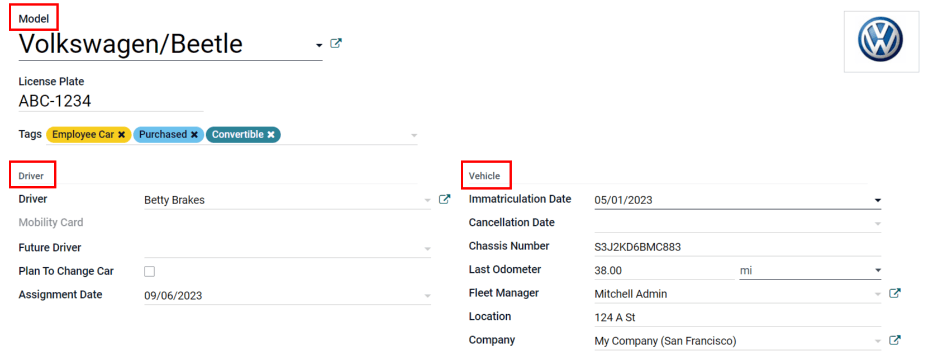
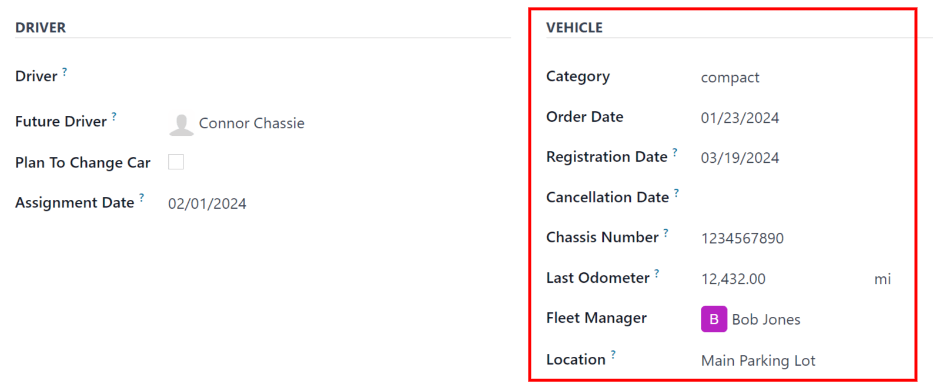
[IMP] fleet: new vehicle updates
X-original-commit: 3a16f09f7889e3b8a0e4f062fd45a429ed9d5d49

diff --git a/content/applications/hr/fleet/new_vehicle.rst b/content/applications/hr/fleet/new_vehicle.rst
@@ -1,33 +1,47 @@
-===================
-Create new vehicles
-===================
+============
+New vehicles
+============
 
-Odoo's *Fleet* app manages all vehicles and the accompanying documentation that comes with vehicle
-maintenance and driver's records.
+Odoo's *Fleet* app manages all vehicles, and the accompanying documentation that comes with vehicle
+maintenance, and drivers records.
 
-All vehicles are organized on the main :guilabel:`Fleet` dashboard. Each vehicle has its own
-*vehicle form*, which is displayed as a card in the kanban view, according to it's status. Every
-vehicle form is displayed in its current corresponding kanban stage. The default stages are
-:guilabel:`New Request`, :guilabel:`To Order`, :guilabel:`Ordered`, :guilabel:`Registered`,
-:guilabel:`Downgraded`, :guilabel:`Reserve`, and :guilabel:`Waiting List`.
+Upon opening the :menuselection:`Fleet` application, all vehicles are organized within the
+:guilabel:`Vehicles` dashboard, which is the default dashboard for the *Fleet* application. Each
+vehicle is displayed in its corresponding Kanban stage, based on its status. The default stages are
+:guilabel:`New Request`, :guilabel:`To Order`, :guilabel:`Registered`, and :guilabel:`Downgraded`.
 
-To add a new vehicle to the fleet, click the :guilabel:`Create` button, and a blank vehicle form
-loads. Enter the vehicle information in the vehicle form, then click :guilabel:`Save`.
+To add a new vehicle to the fleet from the :guilabel:`Vehicles` page, click the :guilabel:`New`
+button in the top-left corner, and a blank vehicle form loads. Then, proceed to enter the vehicle
+information on the vehicle form.
+
+The form auto-saves as data is entered. However, the form can be saved manually at any time by
+clicking the *save manually* option, represented by a :guilabel:`(cloud upload)` icon, located in
+the top-left corner of the page.
+
+.. _fleet/new_vehicle/vehicle-form:
 
 Vehicle form fields
 ===================
 
-- :guilabel:`Model`: select the vehicle's model from the drop-down menu. If the model is not listed,
-  type in the model name and click either :guilabel:`Create` or :guilabel:`Create and Edit`.
+- :guilabel:`Model`: select the vehicle's model from the drop-down menu. Once a model is selected,
+  additional fields may appear on the form.
+
+  If the model is not listed, type in the model name, and click either :guilabel:`Create "model"`,
+  or :guilabel:`Create and edit...` to :ref:`create a new model and edit the model details
+  <fleet/configuration/add-model>`.
 - :guilabel:`License Plate`: enter the vehicle's license plate number in this field.
 - :guilabel:`Tags`: select any tags from the drop-down menu, or type in a new tag. There is no limit
   on the amount of tags that can be selected.
 
+.. image:: new_vehicle/model.png
+   :align: center
+   :alt: The new vehicle form, showing the model section.
+
 .. note::
    The :guilabel:`Model` is the only required field on the new vehicle form. When a model is
-   selected, other fields will appear on the vehicle form, and relevant information will
-   auto-populate fields that apply to the model. If some of the fields do not appear, this may
-   indicate there is no model selected.
+   selected, other fields appear on the vehicle form, and relevant information auto-populates the
+   fields that apply to the model. If some of the fields do not appear, this may indicate there is
+   no model selected.
 
 Driver section
 --------------
@@ -36,58 +50,226 @@ This section of the vehicle form relates to the person who is currently driving 
 any plans for a change in the driver in the future, and when.
 
 - :guilabel:`Driver`: select the driver from the drop-down menu, or type in a new driver and click
-  either :guilabel:`Create` or :guilabel:`Create and Edit`.
+  either :guilabel:`Create "driver"` or :guilabel:`Create and edit...` to :ref:`create a new driver,
+  and edit the driver details <fleet/new_vehicle/add-driver>`.
+
+  .. important::
+     A driver does **not** have to be an employee. When creating a new driver, the driver is added
+     to the *Fleet* application, **not** the *Employees* application.
+
+     If the *Contacts* application is installed, the driver information is also stored in the
+     *Contacts* application.
+
 - :guilabel:`Mobility Card`: if the selected driver has a mobility card listed on their employee
-  card in the *Employees* application, the mobility card number will appear in this field. If there
-  is no mobility card listed and one should be added, :ref:`edit the employee card
+  card in the *Employees* application, the mobility card number appears in this field. If there is
+  no mobility card listed, and one should be added, :ref:`edit the employee record
   <employees/hr-settings>` in the *Employees* application.
 - :guilabel:`Future Driver`: if the next driver for the vehicle is known, select the next driver
-  from the drop-down menu, or type in the next driver and click either :guilabel:`Create` or
-  :guilabel:`Create and Edit`.
+  from the drop-down menu. Or, type in the next driver and click either :guilabel:`Create "future
+  driver"` or :guilabel:`Create and edit...` to :ref:`create a new future driver, and edit the
+  driver details <fleet/new_vehicle/add-driver>`.
 - :guilabel:`Plan To Change Car`: if the current driver set for this vehicle plans to change their
-  vehicle, either because they are waiting on a new vehicle that is being ordered, or this is a
-  temporary vehicle assignment and they know which vehicle they will be driving next, check this
-  box. If the current driver does not plan to change their vehicle and use this current vehicle, do
-  not check this box.
-- :guilabel:`Assignment Date`: select the date the vehicle will be available for another driver
-  using the drop-down calendar. Select the date by navigating to the correct month and year using
-  the :guilabel:`⬅ (left arrow)` and :guilabel:`➡ (right arrow)` icons, then click on the specific
-  day. If this field is blank, this indicates the vehicle is currently available and can be
-  reassigned to another driver. If it is populated, the vehicle will not be available to assign to
-  another driver until the date entered.
+  vehicle - either because they are waiting on a new vehicle that is being ordered, or this is a
+  temporary vehicle assignment, and they know which vehicle they are driving next - check this box.
+  Do **not** check this box if the current driver does not plan to change their vehicle.
+- :guilabel:`Assignment Date`: using the drop-down calendar, select when the vehicle is available
+  for another driver. Select the date by navigating to the correct month and year using the
+  :guilabel:`⬅ (left arrow)` and :guilabel:`➡ (right arrow)` icons. Then, click on the specific
+  day. If this field is left blank, that indicates the vehicle is currently available, and can be
+  reassigned to another driver. If it is populated, the vehicle is not available for another driver
+  until the selected date.
+- :guilabel:`Company`: select the company from the drop-down menu. This field only appears in a
+  multi-company database.
 
-.. important::
-   A driver does **not** have to be an employee, but a driver must be listed in the *Contacts*
-   application. When creating a new driver, the driver is added to the *Contacts* application, not
-   the *Employees* application.
+.. _fleet/new_vehicle/add-driver:
+
+Create a new driver
+~~~~~~~~~~~~~~~~~~~
+
+If a driver is not already in the system, the new driver should first be configured and added to the
+database. A new driver can be added either from the :guilabel:`Driver` or :guilabel:`Future Driver`
+fields on the :ref:`vehicle form <fleet/new_vehicle/vehicle-form>`.
+
+First, type in the name of the new driver in either the :guilabel:`Driver` or :guilabel:`Future
+Driver` field, then click :guilabel:`Create and edit...`. A :guilabel:`Create Driver` or
+:guilabel:`Create Future Driver` form appears, depending on which field initiated the form.
+
+Both the :guilabel:`Create Driver` and :guilabel:`Create Future Driver` forms are identical.
+
+.. _fleet/new_vehicle/general-info:
+
+.. note::
+   Depending on the installed applications, different tabs or fields may be visible on the
+   :guilabel:`Create Driver` and :guilabel:`Create Future Driver` forms.
+
+General information
+*******************
+
+Fill out the following information on the top-half of the form:
+
+- :guilabel:`Individual` or :guilabel:`Company`: choose if the driver being added is an individual
+  driver or a company. Click the radio button to make a selection.
+
+  When a selection is made, some fields may disappear from the form. If any of the fields below are
+  not visible, that is because :guilabel:`Company` was selected instead of :guilabel:`Individual`.
+- :guilabel:`Name`: enter the name of the driver or company in this field.
+- :guilabel:`Company Name...`: using the drop-down menu, select the company the driver is associated
+  with.
+
+  If the :guilabel:`Company` radio button is selected at the top of the form, this field does not
+  appear.
+- :guilabel:`Contact`: enter the contact information in this section.
+
+  If desired, the :guilabel:`Contact` field can be changed to a different type of contact. Click on
+  :guilabel:`Contact` to reveal a drop-down menu. The available options to select are
+  :guilabel:`Contact`, :guilabel:`Invoice Address`, :guilabel:`Delivery Address`,
+  :guilabel:`Follow-up Address`, or :guilabel:`Other Address`.
+
+  If desired, select one of these other options for the :guilabel:`Contact` field, and enter the
+  corresponding information.
+
+  If the :guilabel:`Company` radio button is selected at the top of the form, this field is labeled
+  :guilabel:`Address` and cannot be modified.
+
+- :guilabel:`Tax ID`: enter the driver or company's tax ID in this field.
+- :guilabel:`Job Position`: enter the driver's job position in this field. If the
+  :guilabel:`Company` radio button is selected at the top of the form, this field does not appear.
+- :guilabel:`Phone`: enter the driver or company's phone number in this field.
+- :guilabel:`Mobile`: enter the driver or company's mobile number in this field.
+- :guilabel:`Email`: enter the driver or company's email address in this field.
+- :guilabel:`Website`: enter the driver or company's website address in this field.
+- :guilabel:`Title`: using the drop-down menu, select the driver's title in this field. The default
+  options are :guilabel:`Doctor`, :guilabel:`Madam`, :guilabel:`Miss`, :guilabel:`Mister`, and
+  :guilabel:`Professor`.
+
+  If the :guilabel:`Company` radio button is selected at the top of the form, this field does not
+  appear.
+- :guilabel:`Tags`: using the drop-down menu, select any tags that apply to the driver or company.
+
+  To add a new tag, type in the tag, then click :guilabel:`Create "tag"`.
+
+  There is no limit to the number of tags that can be selected.
+
+.. image:: new_vehicle/create-driver.png
+   :align: center
+   :alt: The top portion of the create driver form.
+
+Contacts & Addresses tab
+************************
+
+After completing the top-half of the :guilabel:`Create Driver` or :guilabel:`Create Future Driver`
+form, add any other contacts and addresses associated with the driver or company in this tab.
+
+To add a new contact, click the :guilabel:`Add` button, and a :guilabel:`Create Contact` pop-up
+window appears.
+
+Before entering the necessary information on the form, select the type of contact being added from a
+series radio button options located at the top of the form. Those options are:
+
+- :guilabel:`Contact`: select this option to add general contact details for employees of the
+  associated company.
+- :guilabel:`Invoice Address`: select this option to add a preferred address for all invoices. When
+  added to the form, this address is selected by default when sending an invoice to the associated
+  company.
+- :guilabel:`Delivery Address`: select this option to add a preferred address for all deliveries.
+  When added to the form, this address is selected by default when delivering an order to the
+  associated company.
+- :guilabel:`Follow-up Address`: select this option to add a preferred address for all follow-up
+  correspondence. When added to the form, this address is selected by default when sending reminders
+  about overdue invoices.
+- :guilabel:`Other Address`: select this option to add any other necessary addresses for the company
+  or driver.
+
+.. image:: new_vehicle/create-contact.png
+   :align: center
+   :alt: The create contact form with all parts filled in.
+
+Depending on the :guilabel:`Contact Type`, some optional fields may not be visible. The available
+fields are identical to the fields in the :ref:`general information
+<fleet/new_vehicle/general-info>` section of the new driver form.
+
+Add any notes to the :guilabel:`Internal notes...` section of the form.
+
+After entering all of the information, click either :guilabel:`Save & Close` to add the one new
+contact, or :guilabel:`Save & New` to add the current address record and create another address
+record.
+
+As contacts are added to this tab, each contact appears in a separate box, with an icon indicating
+what type of contact is listed.
+
+.. example::
+   An :guilabel:`Invoice Address` displays a :guilabel:`💲 (dollar sign)` icon inside that specific
+   address box, whereas a :guilabel:`Delivery Address` displays a :guilabel:`🚚 (truck)` icon
+   inside.
+
+   .. image:: new_vehicle/contacts-address.png
+     :align: center
+     :alt: The create contact form with all parts filled in.
+
+Sales & Purchase tab
+********************
+
+Enter the following sales and purchasing information, in the :guilabel:`Sales & Purchase` tab of the
+:guilabel:`Create Driver` or :guilabel:`Create Future Driver` pop-up form for the various sections
+below.
+
+Depending on the other installed applications, additional fields and sections may appear. The
+following are all default fields for the *Fleet* application **only**.
+
+Sales section
+^^^^^^^^^^^^^
+
+- :guilabel:`Salesperson`: using the drop-down menu, select the user who is the main point of
+  contact for sales with this driver's company.
+
+  This person **must** be an internal user of the company, meaning they can log into the database as
+  a user.
+
+Misc
+^^^^
+
+- :guilabel:`Company ID`: if the company has an ID number, **other than** its *tax ID*, enter it in
+  this field.
+- :guilabel:`Reference`: enter any text to give more information regarding the contact person. This
+  is an internal note to provide any additional information.
+
+  .. example::
+     A company has several people with the same name, John Smith. The :guilabel:`Reference` field
+     could state `John Smith at X205 - purchaser` to provide additional details.
+
+Internal Notes tab
+******************
+
+Add any notes that pertain to the driver, or any other necessary information, in this tab.
 
 Vehicle section
 ---------------
 
-This section of the vehicle form relates to the physical vehicle, it's various properties, when it
-was added, where it is located, and who is managing it.
+This section of the vehicle form relates to the physical details of the vehicle.
 
-- :guilabel:`Immatriculation Date`: select the date the vehicle is acquired using the drop-down
-  calendar.
-- :guilabel:`Cancellation Date`: select the date the vehicle lease will expire, or when the vehicle
-  will be no longer available, using the drop-down calendar.
+If a preexisting vehicle in the database was selected for the :guilabel:`Model` field in the top
+portion of the form, some fields may auto-populate, and additional fields may also appear.
+
+Fill in the following fields on the form:
+
+- :guilabel:`Category`: using the drop-down menu, select the vehicle category from the available
+  options. To create a new category, type in the new category name, then click :guilabel:`Create
+  "category"`.
+- :guilabel:`Order Date`: using the drop-down calendar, select the date the vehicle was ordered.
+- :guilabel:`Registration Date`: using the drop-down calendar, select the date the vehicle was
+  registered.
+- :guilabel:`Cancellation Date`: using the drop-down calendar, select the date the vehicle lease
+  expires, or when the vehicle is no longer available.
 - :guilabel:`Chassis Number`: enter the chassis number in the field. This is known in some countries
   as the :abbr:`VIN (Vehicle Identification Number)` number.
 - :guilabel:`Last Odometer`: enter the last known odometer reading in the number field. Using the
   drop-down menu next to the number field, select whether the odometer reading is in kilometers
   :guilabel:`(km)` or miles :guilabel:`(mi)`.
 - :guilabel:`Fleet Manager`: select the fleet manager from the drop-down menu, or type in a new
-  fleet manager and click either :guilabel:`Create` or :guilabel:`Create and Edit`.
-- :guilabel:`Location`: type in the location for the vehicle in the field. The most common scenario
-  for when this field would be populated is if a company has several office locations. The typical
-  office location where the vehicle is located would be the location entered.
-- :guilabel:`Company`: select the company that the vehicle will be used for and associated with from
-  the drop-down menu, or type in a new company and click either :guilabel:`Create` or
-  :guilabel:`Create and Edit`.
-
-.. important::
-   Creating a new company may cause a subscription price change depending on the current plan. Refer
-   to `Odoo's pricing plan <https://www.odoo.com/pricing-plan>`_ for more details.
+  fleet manager, and click either :guilabel:`Create` or :guilabel:`Create and Edit`.
+- :guilabel:`Location`: type in the specific location where the vehicle is typically located in this
+  field. The entry should clearly explain where the vehicle can be found, such as `Main Garage` or
+  `Building 2 Parking Lot`.
 
 .. image:: new_vehicle/new-vehicle-type.png
    :align: center
@@ -96,24 +278,18 @@ was added, where it is located, and who is managing it.
 Tax Info tab
 ------------
 
+Depending on the localization setting for the database, and what additional applications are
+installed, other fields may be present on the form.
+
+The sections below are default and appear for all vehicles, regardless of other installed
+applications or localization settings.
+
 Fiscality
 ~~~~~~~~~
 
-- :guilabel:`Horsepower Taxation`: enter the amount that is taxed based on the size of the vehicles
+- :guilabel:`Horsepower Taxation`: enter the amount that is taxed based on the size of the vehicle's
   engine. This is determined by local taxes and regulations, and varies depending on the location.
   It is recommended to check with the accounting department to ensure this value is correct.
-- :guilabel:`Disallowed Expense Rate`: this is the amount of non-deductible expenses for the
-  vehicle. This amount is not counted towards any deductions on a tax return or as an allowable
-  expense when calculating taxable income. It is recommended to check with the accounting department
-  to ensure the value(s) entered are correct.
-
-  - :guilabel:`Start Date`: enter the :guilabel:`Start Date` and :guilabel:`(%) Percentage` for when
-    the :guilabel:`Disallowed Expense Rate` value goes into effect. Click :guilabel:`Add a line` to
-    enter a date. Click on the blank line to display a calendar. Select the date by navigating to
-    the correct month and year using the :guilabel:`⬅ (left arrow)` and :guilabel:`➡ (right
-    arrow)` icons, then click on the specific day. Enter the percentage that is disallowed in the
-    :guilabel:`% (percent)` field to the right of the date. The percentage should be entered in an
-    XX.XX format. Repeat this for all entries needed.
 
 Contract
 ~~~~~~~~
@@ -126,8 +302,8 @@ Contract
 - :guilabel:`Residual Value`: enter the current value of the vehicle.
 
 .. note::
-   The values listed above will affect the accounting department. It is recommended to check with
-   the accounting department for more information and/or assistance with these values.
+   The values listed above affect the accounting department. It is recommended to check with the
+   accounting department for more information and/or assistance with these values.
 
 .. image:: new_vehicle/new-vehicle-tax.png
    :align: center
@@ -137,13 +313,13 @@ Model tab
 ---------
 
 If the model for the new vehicle is already configured in the database, the :guilabel:`Model` tab
-will be populated with the corresponding information. If the model is not already in the database
-and the :guilabel:`Model` tab needs to be configured, :ref:`configure the new vehicle model
-<fleet/configuration/add-model>`.
+populates the corresponding information. If the model is **not** already in the database, and the
+:guilabel:`Model` tab needs to be configured, it is recommended that :ref:`the new vehicle model
+<fleet/configuration/add-model>` be configured so this information auto-populates.
 
 Check the information in the :guilabel:`Model` tab to ensure it is accurate. For example, the color
-of the vehicle, or whether there is a trailer hitch installed or not, are examples of information
-that may need updating.
+of the vehicle, or if a trailer hitch is installed, are examples of common information that may need
+updating.
 
 .. image:: new_vehicle/model-tab.png
    :align: center
